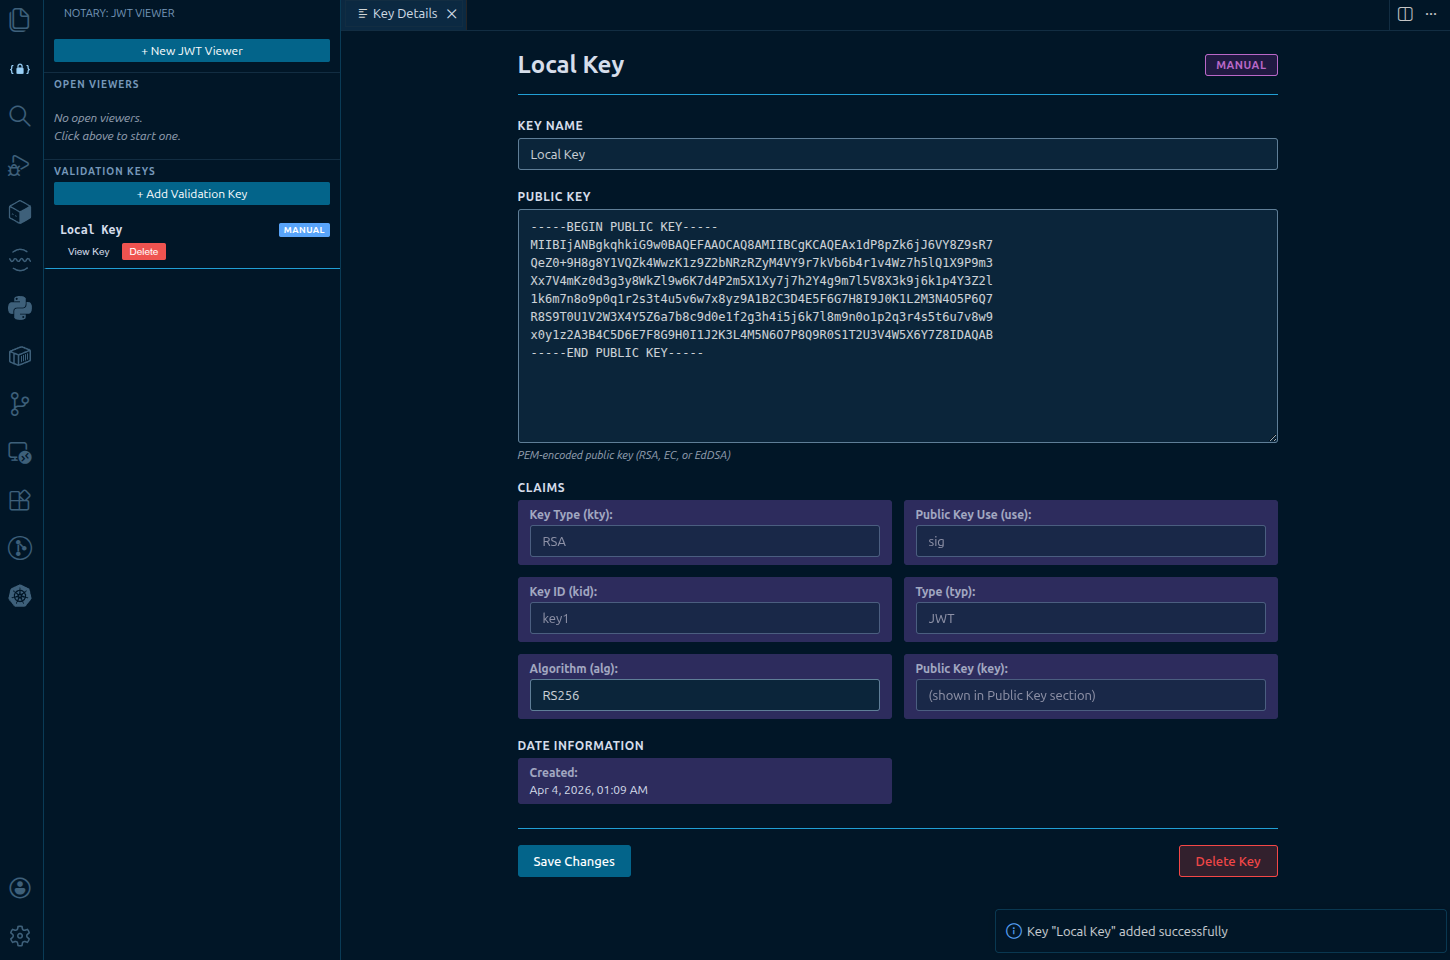
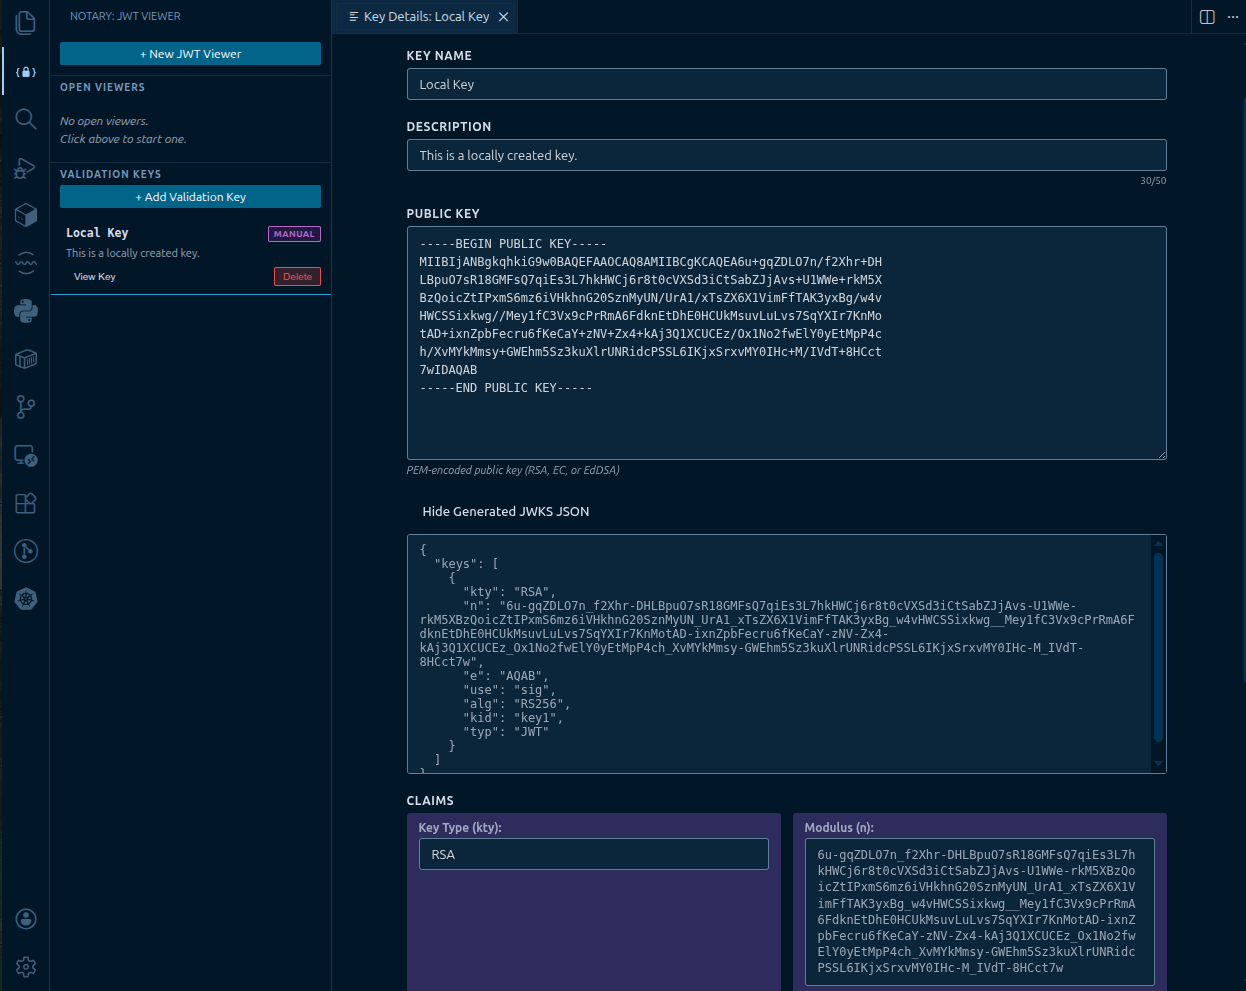
chore: update screenshots and README

diff --git a/README.md b/README.md
@@ -20,10 +20,12 @@ JWT Viewer with Remote Key Verification
 - **Public Key Validation**: Validate JWT signatures against saved public keys
 - **Multiple Key Sources**:
   - **OIDC/JWKS URLs**: Automatically fetch keys from OpenID Connect discovery endpoints
+   - **JWKS JSON Entry**: Paste full JWKS documents directly (stored as a key set)
   - **Manual Entry**: Add public keys directly in PEM or raw format
 - **Key Management**: Store, list, and delete validation keys from the sidebar
 - **Auto-Refresh**: URL-based keys can be configured to refresh automatically (daily, weekly, or monthly)
-- **Key Viewing**: Review stored public keys in decoded (PEM) format
+- **JWKS Key Selection**: JWT `kid` is used first, with optional manual override in the JWT Viewer
+- **Key Viewing**: Review stored key material and derived public keys in decoded (PEM) format
 
 ### 🎨 User Interface
 - **Sidebar View**: Quick access to open viewers and key management
@@ -54,6 +56,20 @@ Entry
 Edit
 ![Remote Server Key Edit](images/screenshots/06-server-edit.png)
 
+
+### JWKS Key
+
+Entry
+![JWKS Key Entry](images/screenshots/08-jwks-entry.png)
+
+Edit
+![JWKS Key Edit](images/screenshots/09-jwks-edit.png)
+
+JWT Viewer with JWKS Verification
+![Viewer and JWKS Verify](images/screenshots/10-jwks-viewer.png)
+![Viewer and Failed JWKS Verify](images/screenshots/11-jwks-failed-validation.png)
+
+
 ## Usage
 
 ### Viewing a JWT
@@ -66,17 +82,20 @@ Edit
 
 ### Managing Validation Keys
 
+All key creation now starts from the sidebar **Add Key** button, then you choose the source in the key details panel.
+
 #### Adding a Key from OIDC/JWKS URL
 
 1. Open the Notary sidebar from the activity bar
-2. Under "Validation Keys", enter a name for your key
-3. Select "Fetch from URL"
-4. Enter one of the following URL formats:
+2. Click **Add Key**
+3. Enter a name for your key
+4. Select **Fetch from URL**
+5. Enter one of the following URL formats:
    - **Base URL**: `https://example.com` (auto-discovers via .well-known)
    - **OpenID Configuration**: `https://example.com/.well-known/openid-configuration`
    - **Direct JWKS URL**: `https://example.com/.well-known/jwks.json`
-5. Choose a refresh period (Daily, Weekly, or Monthly)
-6. Click "Add Key"
+6. Choose a refresh period (Daily, Weekly, or Monthly)
+7. Click **Add Key**
 
 The extension will automatically discover the JWKS endpoint from base URLs by attempting:
 - OpenID Connect discovery via `/.well-known/openid-configuration`
@@ -85,9 +104,10 @@ The extension will automatically discover the JWKS endpoint from base URLs by at
 #### Adding a Manual Key
 
 1. Open the Notary sidebar
-2. Enter a name for your key
-3. Select "Enter Public Key Manually"
-4. Paste your public key in PEM format:
+2. Click **Add Key**
+3. Enter a name for your key
+4. Select **Manual Entry**
+5. Paste your public key in PEM format:
    ```
    -----BEGIN PUBLIC KEY-----
[1 lines of base64/hex data omitted]
@@ -95,7 +115,33 @@ The extension will automatically discover the JWKS endpoint from base URLs by at
    ...
    -----END PUBLIC KEY-----
    ```
-5. Click "Add Key"
+6. Click **Add Key**
+
+#### Adding a Key from JWKS JSON
+
+1. Open the Notary sidebar
+2. Click **Add Key**
+3. Enter a name for your key
+4. Select **Paste JWKS JSON**
+5. Paste a full JWKS document, for example:
+    ```json
+    {
+       "keys": [
+          {
+             "kty": "RSA",
+             "n": "...",
+             "e": "AQAB",
+             "use": "sig",
+             "alg": "RS256",
+             "kid": "key1"
+          }
+       ]
+    }
+    ```
+6. Review the key preview and claims shown in the panel
+7. Click **Add Key**
+
+When editing a JWKS JSON key, you can update the pasted JWKS document and save changes. Notary stores the full key set and uses JWT `kid` matching during validation.
 
 Supported formats:
 - RSA public keys (`-----BEGIN PUBLIC KEY-----` or `-----BEGIN RSA PUBLIC KEY-----`)
@@ -161,15 +207,7 @@ npm run package
 
 ## Release Notes
 
-### 1.0.0
-
-Initial release of Notary:
-- JWT decoding with syntax highlighting
-- Public key validation support
-- OIDC/JWKS URL key fetching with auto-refresh
-- Manual public key entry
-- Multi-panel support
-- Comprehensive test suite (167 tests)
+See [CHANGELOG](./CHANGELOG.md)
 
 ## License
 
